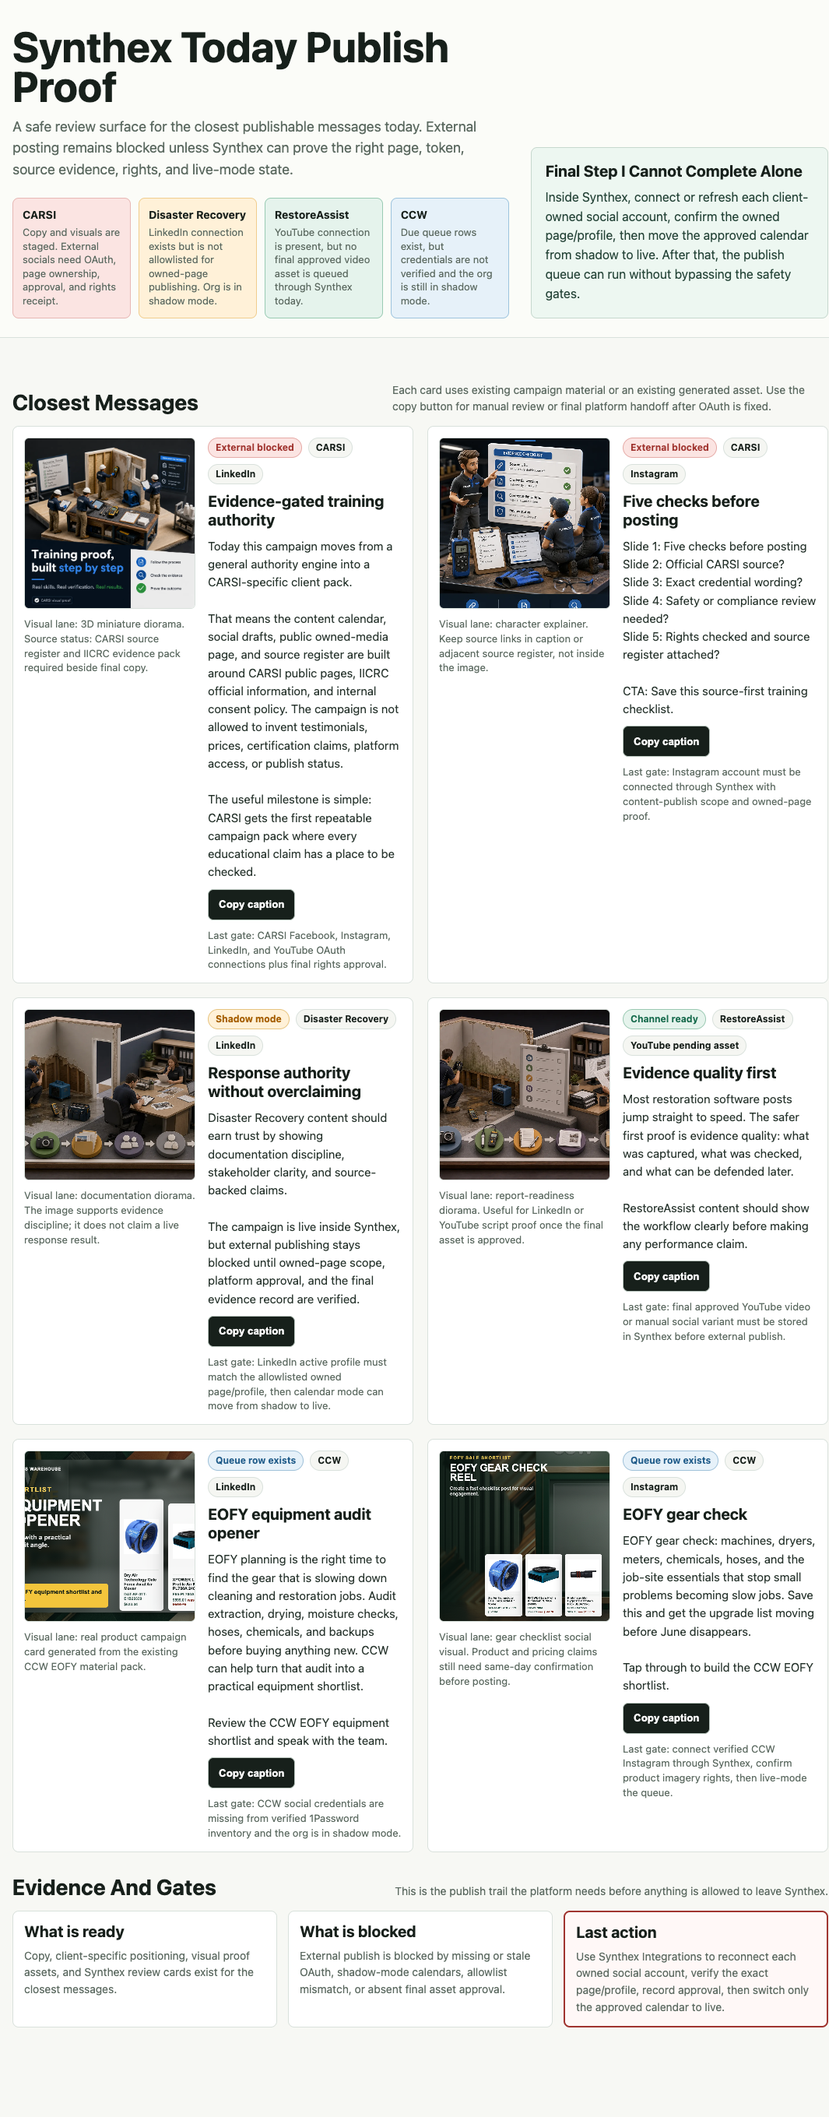
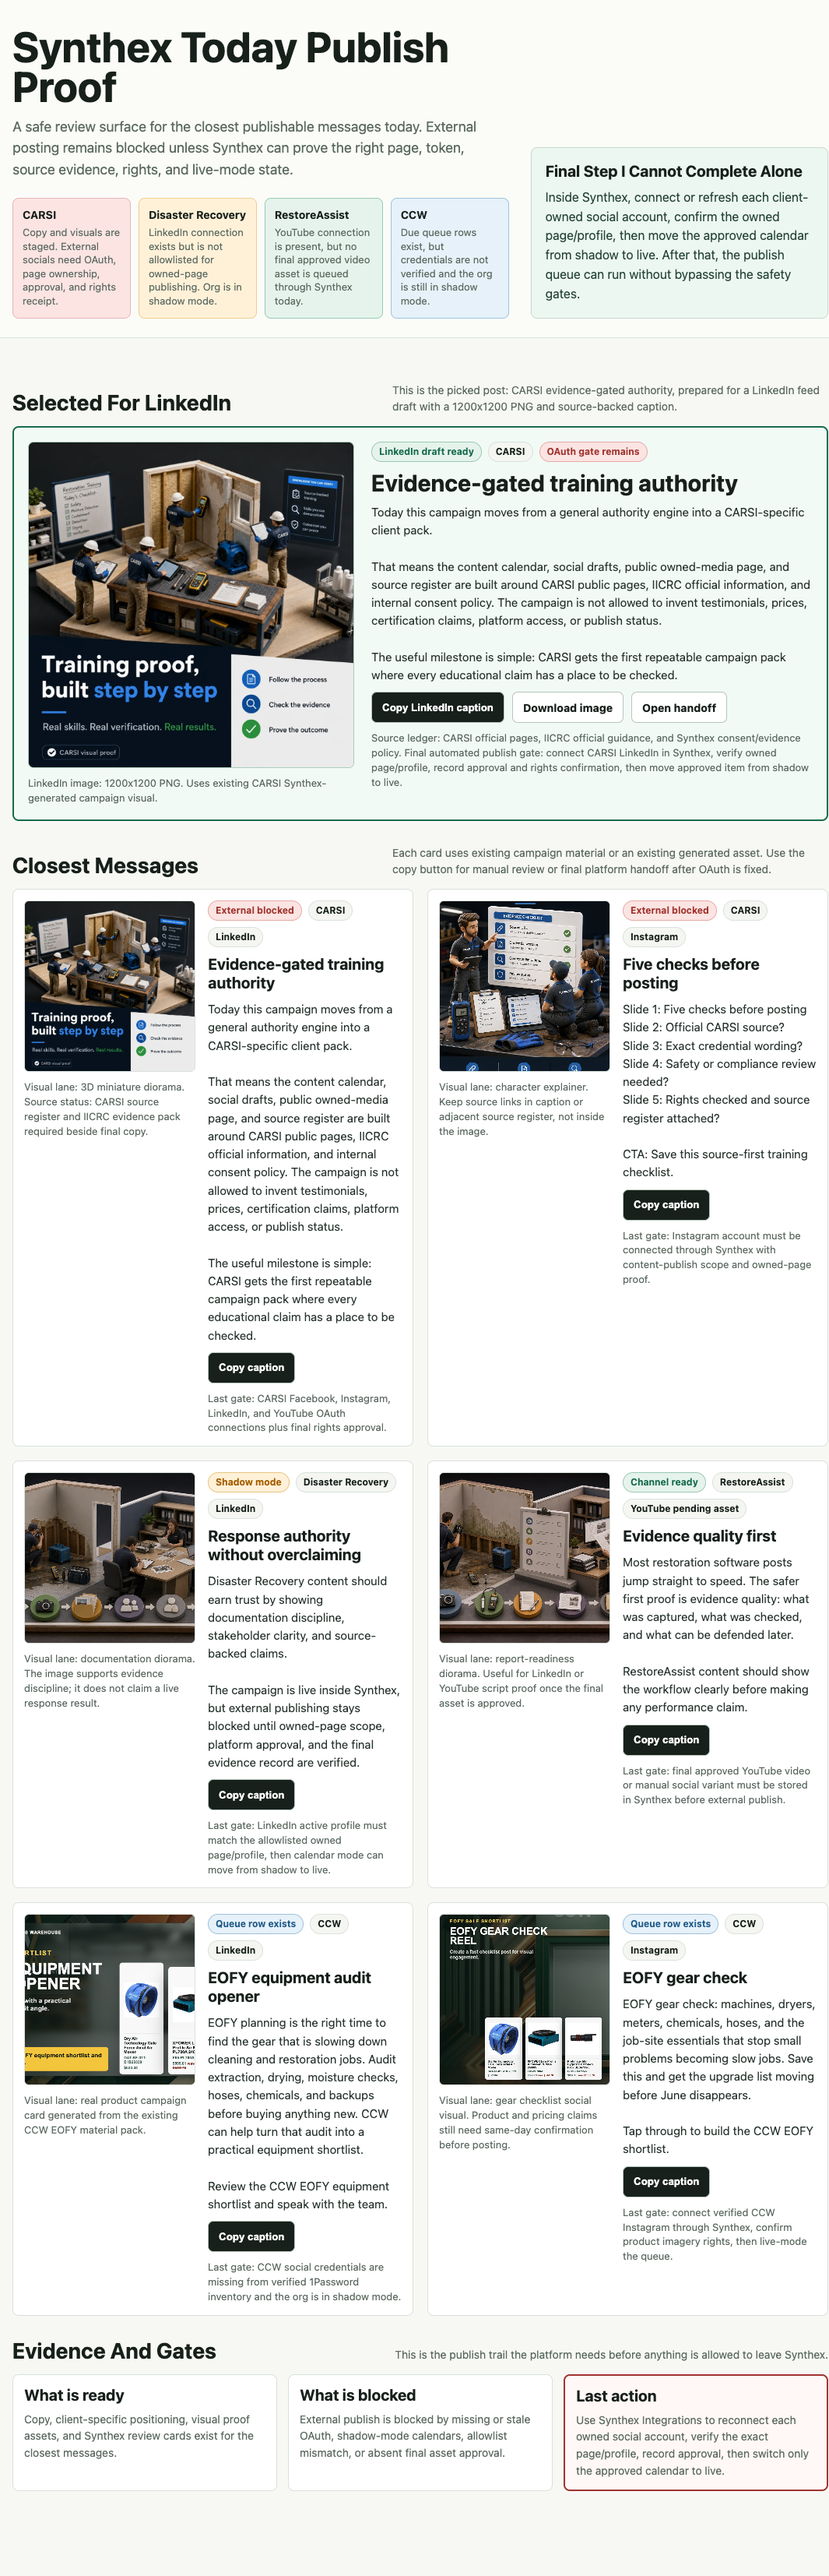
feat: prepare CARSI LinkedIn proof

diff --git a/public/marketing-agency/today-publish-proof/index.html b/public/marketing-agency/today-publish-proof/index.html
@@ -281,6 +281,54 @@
       outline-offset: 2px;
     }
 
+    .selected-post {
+      display: grid;
+      grid-template-columns: minmax(320px, .85fr) minmax(0, 1.15fr);
+      gap: 22px;
+      align-items: start;
+      border: 2px solid #176b4d;
+      border-radius: 8px;
+      background: #f2faf6;
+      padding: 18px;
+      margin-bottom: 30px;
+    }
+
+    .selected-post img {
+      display: block;
+      width: 100%;
+      aspect-ratio: 1 / 1;
+      object-fit: cover;
+      border: 1px solid #aacdbb;
+      border-radius: 7px;
+      background: #eef2ee;
+    }
+
+    .selected-post h2 {
+      margin: 0;
+      font-size: 30px;
+      line-height: 1.1;
+    }
+
+    .asset-links {
+      display: flex;
+      flex-wrap: wrap;
+      gap: 10px;
+    }
+
+    .asset-links a {
+      min-height: 40px;
+      display: inline-flex;
+      align-items: center;
+      border: 1px solid #b8c5bd;
+      border-radius: 7px;
+      background: #ffffff;
+      color: #17201b;
+      padding: 0 13px;
+      font-weight: 750;
+      text-decoration: none;
+      font-size: 14px;
+    }
+
     .ledger {
       display: grid;
       grid-template-columns: repeat(3, minmax(0, 1fr));
@@ -331,7 +379,8 @@
       .hero,
       article,
       .grid,
-      .ledger {
+      .ledger,
+      .selected-post {
         grid-template-columns: 1fr;
       }
 
@@ -388,6 +437,37 @@
   </header>
 
   <main class="wrap">
+    <section class="section-title">
+      <h2>Selected For LinkedIn</h2>
+      <p>This is the picked post: CARSI evidence-gated authority, prepared for a LinkedIn feed draft with a 1200x1200 PNG and source-backed caption.</p>
+    </section>
+
+    <section class="selected-post" aria-label="Selected LinkedIn ready post">
+      <div class="visual">
+        <img src="linkedin-ready/carsi-linkedin-evidence-gated-training-authority.png" alt="CARSI LinkedIn evidence-gated training authority visual" />
+        <p class="note">LinkedIn image: 1200x1200 PNG. Uses existing CARSI Synthex-generated campaign visual.</p>
+      </div>
+      <div class="caption">
+        <div class="meta">
+          <span class="pill ready">LinkedIn draft ready</span>
+          <span class="pill">CARSI</span>
+          <span class="pill blocked">OAuth gate remains</span>
+        </div>
+        <h2>Evidence-gated training authority</h2>
+        <p class="copy" id="copy-carsi-linkedin-selected">Today this campaign moves from a general authority engine into a CARSI-specific client pack.
+
+That means the content calendar, social drafts, public owned-media page, and source register are built around CARSI public pages, IICRC official information, and internal consent policy. The campaign is not allowed to invent testimonials, prices, certification claims, platform access, or publish status.
+
+The useful milestone is simple: CARSI gets the first repeatable campaign pack where every educational claim has a place to be checked.</p>
+        <div class="asset-links">
+          <button type="button" data-copy="copy-carsi-linkedin-selected">Copy LinkedIn caption</button>
+          <a href="linkedin-ready/carsi-linkedin-evidence-gated-training-authority.png" download>Download image</a>
+          <a href="linkedin-ready/carsi-linkedin-evidence-gated-training-authority.md">Open handoff</a>
+        </div>
+        <p class="note">Source ledger: CARSI official pages, IICRC official guidance, and Synthex consent/evidence policy. Final automated publish gate: connect CARSI LinkedIn in Synthex, verify owned page/profile, record approval and rights confirmation, then move approved item from shadow to live.</p>
+      </div>
+    </section>
+
     <section class="section-title">
       <h2>Closest Messages</h2>
       <p>Each card uses existing campaign material or an existing generated asset. Use the copy button for manual review or final platform handoff after OAuth is fixed.</p>

diff --git a/public/marketing-agency/today-publish-proof/linkedin-ready/carsi-linkedin-evidence-gated-training-authority.md b/public/marketing-agency/today-publish-proof/linkedin-ready/carsi-linkedin-evidence-gated-training-authority.md
@@ -1,0 +1,33 @@
+# CARSI LinkedIn Ready Post
+
+Status: ready for LinkedIn draft / blocked for automated publish until CARSI LinkedIn OAuth and owned-page/profile verification are complete.
+
+## Selected Visual
+
+- File: `carsi-linkedin-evidence-gated-training-authority.png`
+- Format: PNG
+- Size: 1200 x 1200
+- Visual lane: 3D miniature diorama
+- Source note: Uses existing Synthex-generated CARSI campaign visual. Do not imply certification, endorsement, pricing, or live publish status from the image.
+
+## LinkedIn Caption
+
+Today this campaign moves from a general authority engine into a CARSI-specific client pack.
+
+That means the content calendar, social drafts, public owned-media page, and source register are built around CARSI public pages, IICRC official information, and internal consent policy. The campaign is not allowed to invent testimonials, prices, certification claims, platform access, or publish status.
+
+The useful milestone is simple: CARSI gets the first repeatable campaign pack where every educational claim has a place to be checked.
+
+## Source Ledger
+
+- CARSI official home page: https://carsi.com.au/
+- CARSI official course catalogue: https://carsi.com.au/courses
+- CARSI official about page and IICRC disclaimer: https://carsi.com.au/about
+- CARSI official membership and pricing page: https://carsi.com.au/pricing
+- IICRC official site: https://iicrc.org/
+- IICRC accepted Continuing Education Credits guidance: https://iicrc.org/accepted-cecs/
+- Synthex Consent and Story Evidence Policy: `docs/marketing-agency/CONSENT-AND-STORY-EVIDENCE-POLICY.md`
+
+## Publish Gate
+
+Final step: connect CARSI LinkedIn inside Synthex, verify the exact owned page/profile, record approval and asset-rights confirmation, then move the approved calendar/post from shadow to live.
